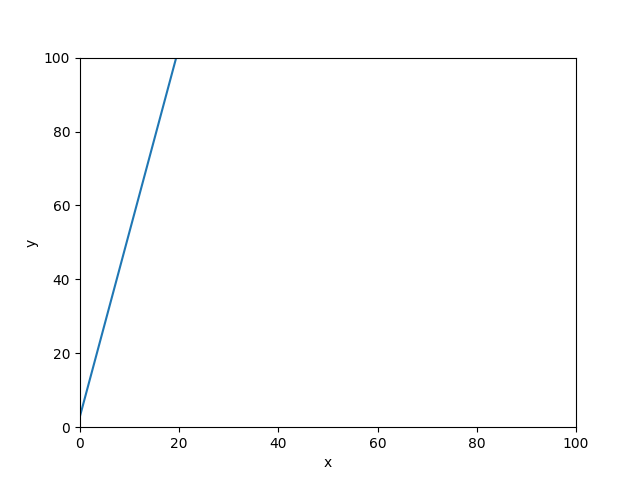
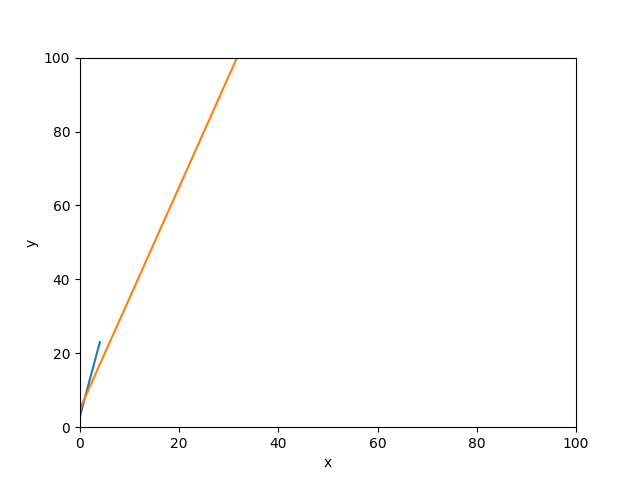
US22 - Task45 - Trent learns PyTest

diff --git a/server/test_server.py b/server/test_server.py
@@ -1,0 +1,49 @@
+import os
+import tempfile
+import pytest
+import re
+import server
+from server import get_x, get_y, create_fig, serialize_fig
+import numpy as np
+
+@pytest.fixture
+def client():
+    server.app.config['TESTING'] = True
+    with server.app.test_client() as client:
+        yield client
+
+def test_get_x():
+    test = np.array([0,1,2,3,4])
+    assert np.array_equal(get_x(5), test)
+
+def test_get_y():
+    test_x = np.array([0,1,2,3,4])
+    test_y = np.array([5 * x + 3 for x in test_x])
+    assert np.array_equal(test_y, get_y(test_x, 5, 3))
+
+def test_create_fig():
+    test_x = np.array([0,1,2,3,4])
+    test_y = np.array([5 * x + 3 for x in test_x])
+    create_fig(test_x, test_y)
+    os.path.exists("./temp/temp.png")
+
+def test_serialize_fig():
+    string = serialize_fig()
+    assert is_base_64(string)
+
+def test_graph(client):
+    req = graph(client, 3, 5)
+    assert(is_base_64(req.json["image"]))
+
+
+def graph(client, slope, y_intercept):
+    return client.post('/graph', json={"slope": slope, "yIntercept": y_intercept})
+
+def is_base_64(s: str):
+    pattern = re.compile("^b'[a-zA-Z0-9+/]*={0,3}'$")
+    return pattern.match(s)
+
+
+
+
+ 

diff --git a/server/server.py b/server/server.py
@@ -9,27 +9,27 @@ def graph():
     content = request.json
     slope = content["slope"]
     y_intercept = content["yIntercept"]
-    x = getX(100)
-    y = getY(x, slope, y_intercept)
-    createFig(x, y)
-    img = {"image": serializeFig()}
+    x = get_x(100)
+    y = get_y(x, slope, y_intercept)
+    create_fig(x, y)
+    img = {"image": serialize_fig()}
     return jsonify(img)
 
-def getX(range: int):
-    return np.arange(100)
+def get_x(range: int):
+    return np.arange(range)
 
-def getY(x, slope: int, y_intercept: int):
+def get_y(x, slope: int, y_intercept: int):
     calculate = lambda x: x * slope + y_intercept
     return calculate(x)
 
-def createFig(x, y):
+def create_fig(x, y):
     plt.plot(x, y)
     plt.xlabel('x')
     plt.ylabel('y')
     plt.axis([0, 100, 0, 100])
     plt.savefig('./temp/temp.png')
 
-def serializeFig() -> str:
+def serialize_fig() -> str:
     with open("./temp/temp.png", "rb") as image_file:
         encoding = base64.b64encode(image_file.read())
     return str(encoding)
